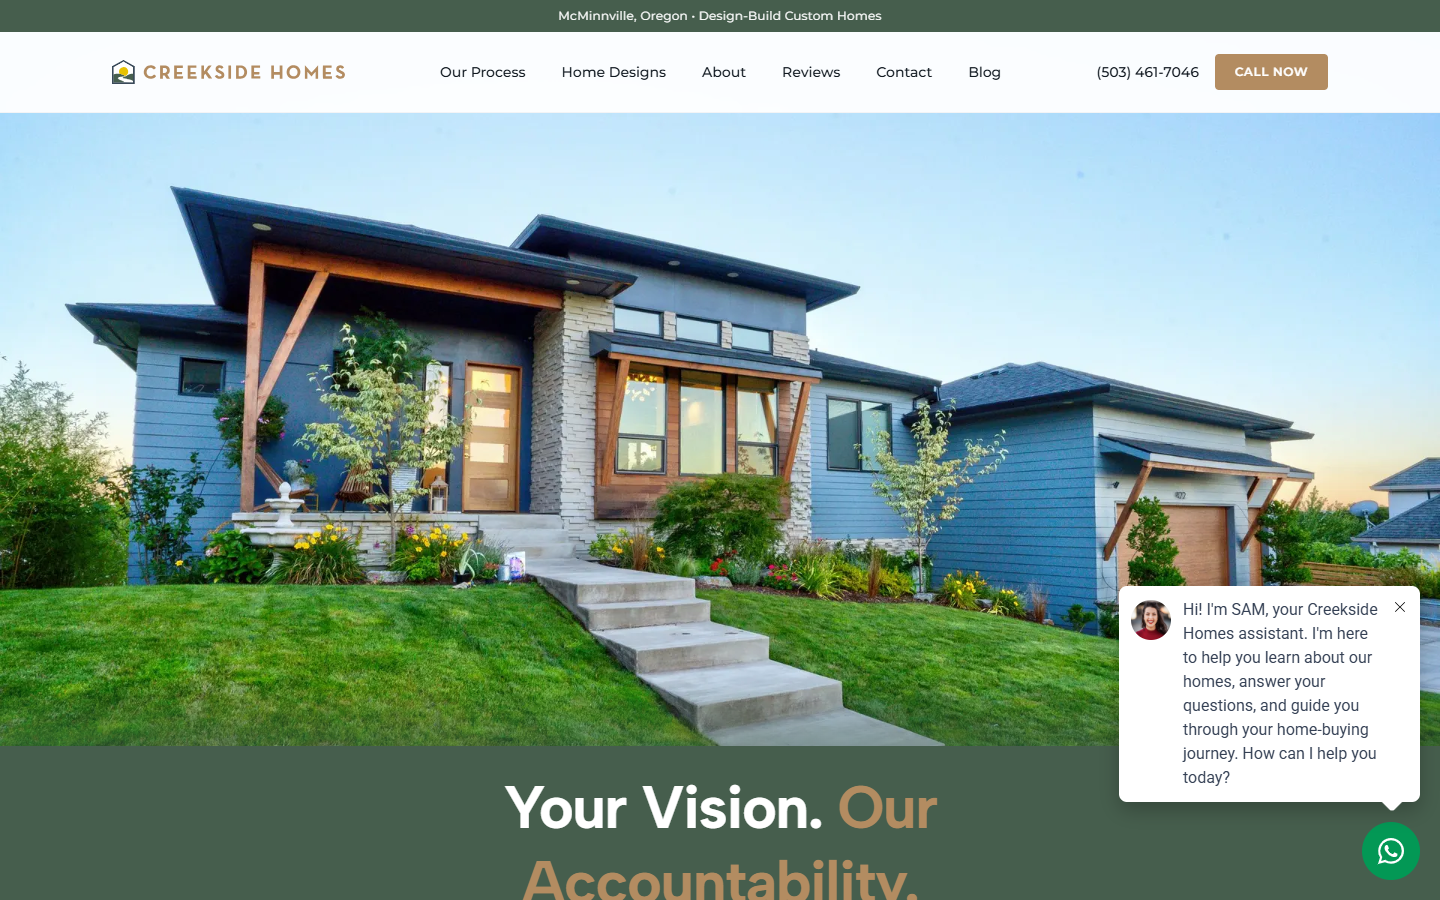
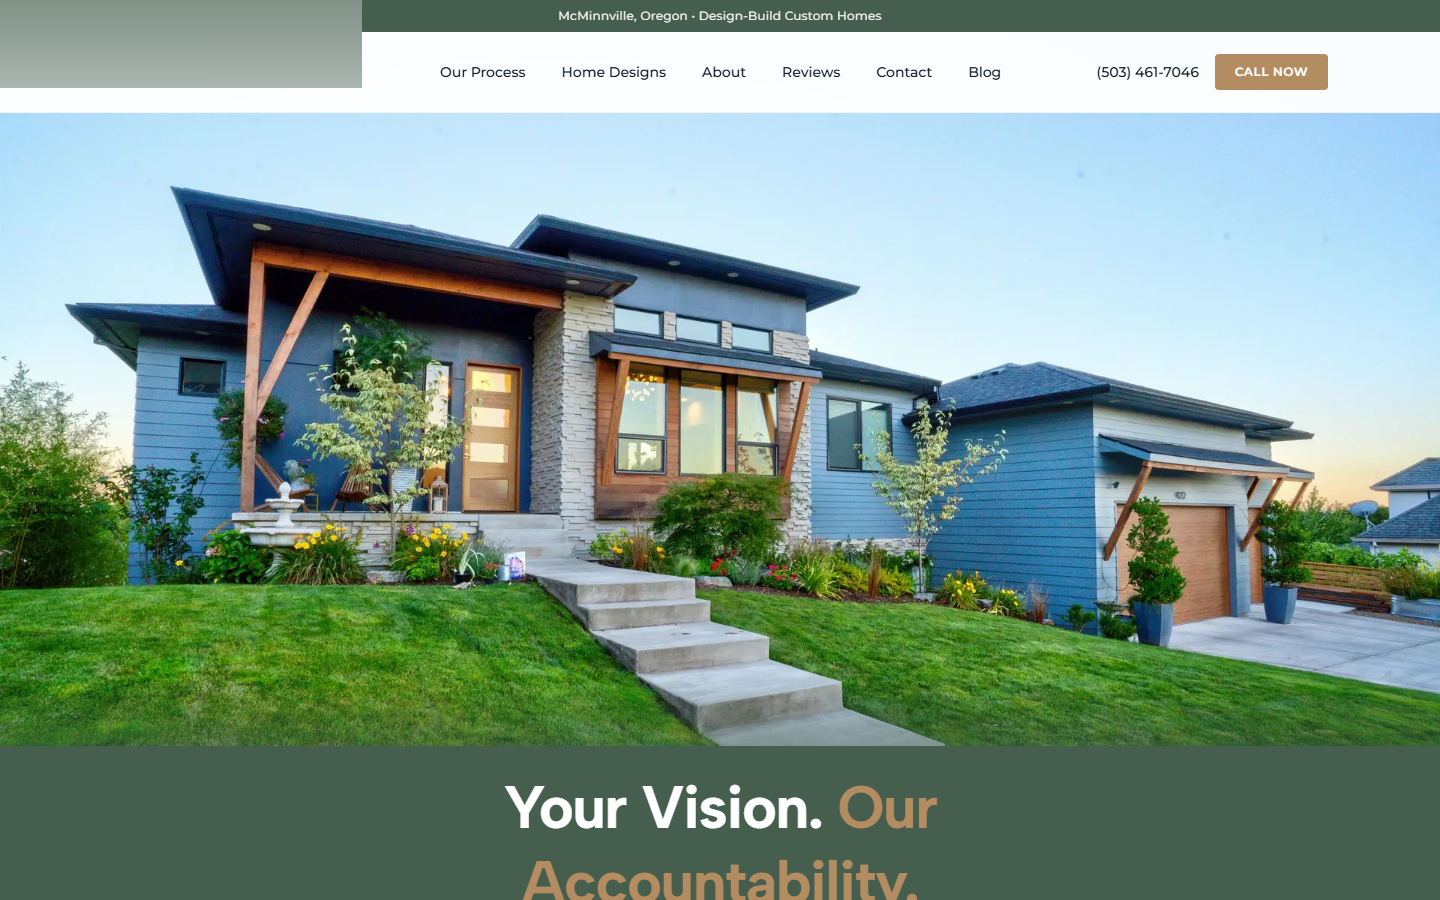
Add Creekside case study: The Bottleneck Was Never the Owner
Second case study covering a Wix migration, AI content engine, CRM
overhaul, and full-stack marketing automation for a 5-person custom
home builder. Copy explains the real difference between platform-locked
editing and AI-powered plain language management. Updated before/after
screenshots from live old Wix site and current Next.js build.

Changed region(s): [[0.75, 0.6533, 1.0, 0.9956], [0.0, 0.0, 0.25, 0.1244]]

diff --git a/app/work/residential-construction/PageContent.jsx b/app/work/residential-construction/PageContent.jsx
@@ -1,0 +1,306 @@
+"use client";
+
+import Link from "next/link";
+import { ArrowLeft } from "lucide-react";
+
+const SHOW_CLIENT_DETAILS = process.env.NEXT_PUBLIC_SHOW_CLIENT_DETAILS === "true";
+
+export default function CaseStudyContent() {
+  const clientName = SHOW_CLIENT_DETAILS ? "Creekside Homes" : "Custom Home Builder";
+  const location = SHOW_CLIENT_DETAILS
+    ? "Design-Build Custom Homes — McMinnville, Oregon"
+    : "Design-Build Custom Homes — Oregon";
+
+  return (
+    <div className="bg-white">
+      {/* Back link */}
+      <div className="max-w-3xl mx-auto px-6 sm:px-8 pt-24 md:pt-28">
+        <Link
+          href="/work"
+          className="inline-flex items-center text-sm text-slate-400 hover:text-[var(--navy)] transition-colors"
+        >
+          <ArrowLeft className="w-4 h-4 mr-1" />
+          All case studies
+        </Link>
+      </div>
+
+      {/* Header */}
+      <header className="max-w-3xl mx-auto px-6 sm:px-8 pt-8 pb-12 md:pb-16">
+        <p className="text-[var(--electric-blue)] text-xs font-bold uppercase tracking-widest mb-4">
+          Case Study
+        </p>
+        <h1 className="text-3xl md:text-4xl lg:text-5xl font-bold text-[var(--navy)] leading-tight mb-3">
+          The Bottleneck Was Never the Owner
+        </h1>
+        <p className="text-lg text-slate-500 mb-8">
+          He had the vision and the creative instincts. The tools just couldn&apos;t keep up.
+        </p>
+        <p className="text-xl md:text-2xl text-slate-700 leading-relaxed font-normal">
+          A 5-person custom home builder in Oregon was stuck on a Wix site they couldn&apos;t
+          meaningfully edit, with a CRM full of automations that had never been turned on, and no
+          real system connecting their marketing to their pipeline. We migrated the site to a modern
+          stack, built an AI-powered content and marketing engine the owner runs himself, and wired
+          the whole thing together so ads, landing pages, and the CRM all talk to each other
+          automatically.
+        </p>
+      </header>
+
+      {/* Before/After images */}
+      <div className="max-w-5xl mx-auto px-6 sm:px-8 pb-16">
+        <div className="grid grid-cols-2 gap-3">
+          <div className="relative rounded-lg overflow-hidden border border-slate-200">
+            <div className="absolute top-3 left-3 bg-slate-800/80 text-white text-xs font-bold uppercase tracking-wider px-3 py-1.5 rounded z-10">
+              Before
+            </div>
+            <img
+              src="/creekside-before.png"
+              alt="Old Wix website with basic layout"
+              className="w-full h-full object-cover"
+            />
+          </div>
+          <div className="relative rounded-lg overflow-hidden border border-slate-200">
+            <div className="absolute top-3 left-3 bg-[var(--mint)] text-[var(--navy)] text-xs font-bold uppercase tracking-wider px-3 py-1.5 rounded z-10">
+              After
+            </div>
+            <img
+              src="/creekside-after.png"
+              alt="Modern Next.js website with AI assistant"
+              className="w-full h-full object-cover"
+            />
+          </div>
+        </div>
+      </div>
+
+      {/* Article body */}
+      <article className="max-w-3xl mx-auto px-6 sm:px-8 pb-24">
+        {/* The Situation */}
+        <section className="mb-16">
+          <h2 className="text-2xl md:text-3xl font-medium text-[var(--navy)] mb-6">
+            The Situation
+          </h2>
+          <div className="space-y-5">
+            <p className="text-slate-600 leading-relaxed">
+              This is a design-build custom home builder in Oregon with a small team and a strong
+              reputation in their market. The owner is the kind of person who has more ideas than
+              hours in the day; he knows what he wants to build, how he wants to market it, and what
+              his brand should look and sound like. What he didn&apos;t have was a platform that let
+              him execute any of it without fighting the tools.
+            </p>
+            <p className="text-slate-600 leading-relaxed">
+              The website was on Wix. It had been built by an agency, handed off with a
+              &quot;good luck,&quot; and left in a state where the owner couldn&apos;t make meaningful
+              changes to it. That might not be obvious from looking at a screenshot of the old site;
+              it looks like a website. But Wix sites require you to work inside a proprietary drag-and-drop
+              editor to make any change, and if you don&apos;t know that editor, you&apos;re stuck.
+              Want to add a new page? You need to understand Wix&apos;s page builder. Want to update
+              a blog post? You need to navigate their content manager. Want to change a form? You&apos;re
+              in their form designer. Every single change requires learning a different tool inside a
+              closed platform you don&apos;t own. For a small team without a dedicated web person, that
+              means the site just doesn&apos;t get updated.
+            </p>
+            <p className="text-slate-600 leading-relaxed">
+              Beyond the surface-level frustration, there were deeper technical problems: canonicals
+              weren&apos;t set correctly, there were dead URLs creating crawl issues, and the SEO
+              foundation was riddled with errors that had been baked in from the start and never
+              addressed.
+            </p>
+            <p className="text-slate-600 leading-relaxed">
+              The CRM was a separate mess. A previous agency had gone in and built out an enormous
+              automation setup; we&apos;re talking something like 120 steps in an email automation
+              sequence for a 5-person team. None of it had ever been turned on. The whole thing was
+              just sitting there, untouched, adding complexity without delivering any value. Leads
+              were coming in but there was no real pipeline, no structured follow-up, and no system
+              connecting the marketing activity to the sales process.
+            </p>
+          </div>
+        </section>
+
+        {/* What We Did */}
+        <section className="mb-16">
+          <h2 className="text-2xl md:text-3xl font-medium text-[var(--navy)] mb-8">
+            What We Did
+          </h2>
+
+          {/* Website Migration */}
+          <div className="mb-12">
+            <h3 className="text-xl font-bold text-[var(--navy)] mb-4">
+              Website Migration
+            </h3>
+            <div className="space-y-5">
+              <p className="text-slate-600 leading-relaxed">
+                We migrated the entire site off Wix onto a modern React-based framework. Every page
+                was rebuilt with clean code, proper responsive behavior, and a structure that actually
+                works for search engines instead of fighting them. The canonical issues, dead URLs, and
+                crawl errors from the old build were all resolved as part of the migration; the new
+                site launched with a clean technical foundation rather than inheriting the old one&apos;s
+                problems.
+              </p>
+              <p className="text-slate-600 leading-relaxed">
+                The real difference isn&apos;t what the site looks like; it&apos;s how it gets managed.
+                On Wix, every change required the owner to open a proprietary editor, find the right
+                tool inside that editor, figure out how to make the change without breaking the layout,
+                and hope it rendered correctly. On the new platform, the owner describes what he wants
+                in plain language, the AI builds the change, and he reviews a live preview before
+                anything goes live. A new landing page, a blog post, a form update, a navigation
+                change; it all works the same way. He tells the system what he needs, and the system
+                handles the technical execution. The platform is his, the code is his, and the barrier
+                between having an idea and publishing it is essentially gone.
+              </p>
+            </div>
+          </div>
+
+          {/* AI Content Engine */}
+          <div className="mb-12">
+            <h3 className="text-xl font-bold text-[var(--navy)] mb-4">
+              AI-Powered Content Engine
+            </h3>
+            <div className="space-y-5">
+              <p className="text-slate-600 leading-relaxed">
+                This is where the engagement turned into something more than a typical migration. The
+                owner had the vision and the creative instincts but didn&apos;t have a system that let
+                him act on them at scale. We built one.
+              </p>
+              <p className="text-slate-600 leading-relaxed">
+                We uploaded his full brand style guide along with voice and tone recommendations from
+                a separate consultant he&apos;d worked with into the AI environment. That means when he
+                sits down to create content, the system already understands how his brand sounds, what
+                language to use, and how to maintain consistency across everything it produces. He uses
+                this regularly now to create blog content, social posts, and one of the bigger wins has
+                been geo-specific landing pages; regional content targeting specific markets that would
+                have taken a traditional agency weeks to produce per page.
+              </p>
+              <p className="text-slate-600 leading-relaxed">
+                He trained on the AI tools and took to them immediately. The owner is now producing
+                content at a pace that simply wasn&apos;t possible before, not because he lacked the
+                ideas but because the tools between his brain and his website used to be the bottleneck.
+                That bottleneck is gone.
+              </p>
+            </div>
+          </div>
+
+          {/* CRM Overhaul */}
+          <div className="mb-12">
+            <h3 className="text-xl font-bold text-[var(--navy)] mb-4">
+              CRM Audit and Overhaul
+            </h3>
+            <div className="space-y-5">
+              <p className="text-slate-600 leading-relaxed">
+                The CRM needed to be taken apart and rebuilt around what the team actually does. We
+                used AI to audit the entire existing setup, map out what was configured versus what was
+                being used, and build a roadmap for what the CRM should actually look like for a team
+                this size. The 120-step automation that had never been turned on was a symptom of a
+                broader problem: someone had built a system for a company that didn&apos;t exist yet,
+                instead of the one that was actually there.
+              </p>
+              <p className="text-slate-600 leading-relaxed">
+                We sourced, hired, and managed a specialist through Upwork to execute the cleanup and
+                reconfiguration at a fraction of what an agency would have charged for the same work.
+                The result is a CRM that fits the team, with automations that are actually running and
+                a pipeline that connects to the rest of the marketing stack.
+              </p>
+            </div>
+          </div>
+
+          {/* Full-Stack AI Agent */}
+          <div className="mb-12">
+            <h3 className="text-xl font-bold text-[var(--navy)] mb-4">
+              Full-Stack Marketing Automation
+            </h3>
+            <div className="space-y-5">
+              <p className="text-slate-600 leading-relaxed">
+                After the core pieces were in place, we connected everything together through an AI
+                agent that manages the full marketing stack: website, CRM, and Google Ads. The system
+                runs autonomously in the background handling routine operations, and the owner can drop
+                in at any time to check performance, ask questions about what&apos;s happening, or
+                kick off new work.
+              </p>
+              <p className="text-slate-600 leading-relaxed">
+                The ad creation flow is where this really comes together. The owner decides he wants to
+                run a new campaign. The system handles keyword research using integrated SEO tools,
+                generates the ad copy, builds the landing page on the site, sets up conversion tracking,
+                wires the lead flow into the CRM, and configures the bidding strategy. What used to
+                require coordinating across an agency, a web developer, and a CRM admin now happens in
+                a single conversation. The owner controls the strategy; the AI handles the execution
+                across every platform.
+              </p>
+            </div>
+          </div>
+        </section>
+
+        {/* The Outcome */}
+        <section className="mb-16">
+          <h2 className="text-2xl md:text-3xl font-medium text-[var(--navy)] mb-8">
+            The Outcome
+          </h2>
+          <div className="overflow-x-auto">
+            <table className="w-full text-left border-collapse">
+              <thead>
+                <tr className="border-b-2 border-slate-200">
+                  <th className="py-3 pr-6 text-sm font-bold text-slate-400 uppercase tracking-wider">Before</th>
+                  <th className="py-3 text-sm font-bold text-[var(--mint)] uppercase tracking-wider">After</th>
+                </tr>
+              </thead>
+              <tbody className="text-slate-600">
+                <tr className="border-b border-slate-100">
+                  <td className="py-4 pr-6">Wix site the owner couldn&apos;t edit, built by an agency and abandoned</td>
+                  <td className="py-4">Modern site on a framework the owner manages through AI, producing content at scale</td>
+                </tr>
+                <tr className="border-b border-slate-100">
+                  <td className="py-4 pr-6">CRM with 120-step automations that had never been turned on</td>
+                  <td className="py-4">Right-sized CRM with working automations and a connected pipeline</td>
+                </tr>
+                <tr className="border-b border-slate-100">
+                  <td className="py-4 pr-6">No connection between ads, landing pages, and lead management</td>
+                  <td className="py-4">Full-stack AI agent managing ads, site, and CRM as one system</td>
+                </tr>
+                <tr>
+                  <td className="py-4 pr-6">Creative owner bottlenecked by tools that couldn&apos;t keep up with his ideas</td>
+                  <td className="py-4">Owner producing geo-targeted pages, blog content, and ad campaigns on his own</td>
+                </tr>
+              </tbody>
+            </table>
+          </div>
+
+          <div className="mt-8 inline-flex items-center gap-3 bg-slate-50 border border-slate-200 rounded-full px-5 py-2.5">
+            <span className="text-[var(--electric-blue)] text-sm font-bold">Timeline:</span>
+            <span className="text-slate-700 text-sm">Core build in 3 weeks, ongoing optimization</span>
+          </div>
+        </section>
+
+        {/* Closing */}
+        <section className="mb-16">
+          <div className="space-y-5">
+            <p className="text-slate-600 leading-relaxed">
+              This engagement started as a website migration and turned into a complete reimagining
+              of how a small team runs their marketing. The owner had the vision the entire time; what
+              he needed was a platform that could keep up with it. The website, the CRM, the content
+              pipeline, and the ad system all work together now as a single stack that he controls.
+            </p>
+            <p className="text-slate-600 leading-relaxed">
+              He&apos;s 100% self-sufficient. We check in because we enjoy the relationship, not
+              because he needs us to keep the lights on. The tools are his, the content is his, the
+              strategy is his. We just made sure the infrastructure matched the ambition.
+            </p>
+          </div>
+        </section>
+
+        {/* CTA */}
+        <section className="border-t border-slate-200 pt-16 text-center">
+          <h2 className="text-2xl md:text-3xl font-medium text-[var(--navy)] mb-4">
+            Want to see what this looks like for your business?
+          </h2>
+          <p className="text-lg text-slate-600 mb-8">
+            30 minutes. I&apos;ll walk you through the live systems and we can talk about what makes
+            sense for your situation.
+          </p>
+          <Link
+            href="/schedule"
+            className="inline-flex items-center justify-center px-10 py-4 bg-[var(--navy)] text-white font-semibold text-lg rounded-lg hover:opacity-90 transition-opacity"
+          >
+            Book a discovery call
+          </Link>
+        </section>
+      </article>
+    </div>
+  );
+}

diff --git a/app/work/residential-construction/page.jsx b/app/work/residential-construction/page.jsx
@@ -1,0 +1,11 @@
+import CaseStudyContent from "./PageContent";
+
+export const metadata = {
+  title: "The Bottleneck Was Never the Owner — Case Study",
+  description:
+    "A custom home builder on a Wix site with a broken CRM got a modern platform, an AI-powered content engine, and full-stack marketing automation in under three weeks.",
+};
+
+export default function CaseStudyPage() {
+  return <CaseStudyContent />;
+}

diff --git a/app/work/PageContent.jsx b/app/work/PageContent.jsx
@@ -16,6 +16,16 @@ const caseStudies = [
     image: "/ts-after.png",
     ready: true,
   },
+  {
+    slug: "residential-construction",
+    title: "The Bottleneck Was Never the Owner",
+    subtitle: SHOW_CLIENT_DETAILS ? "Creekside Homes" : "Custom Home Builder",
+    location: "Oregon",
+    headline: "He had the vision and the creative instincts. The tools just couldn't keep up.",
+    tags: ["Wix Migration", "AI Content Engine", "CRM Overhaul", "Marketing Automation"],
+    image: "/creekside-after.png",
+    ready: true,
+  },
 ];
 
 export default function WorkContent() {